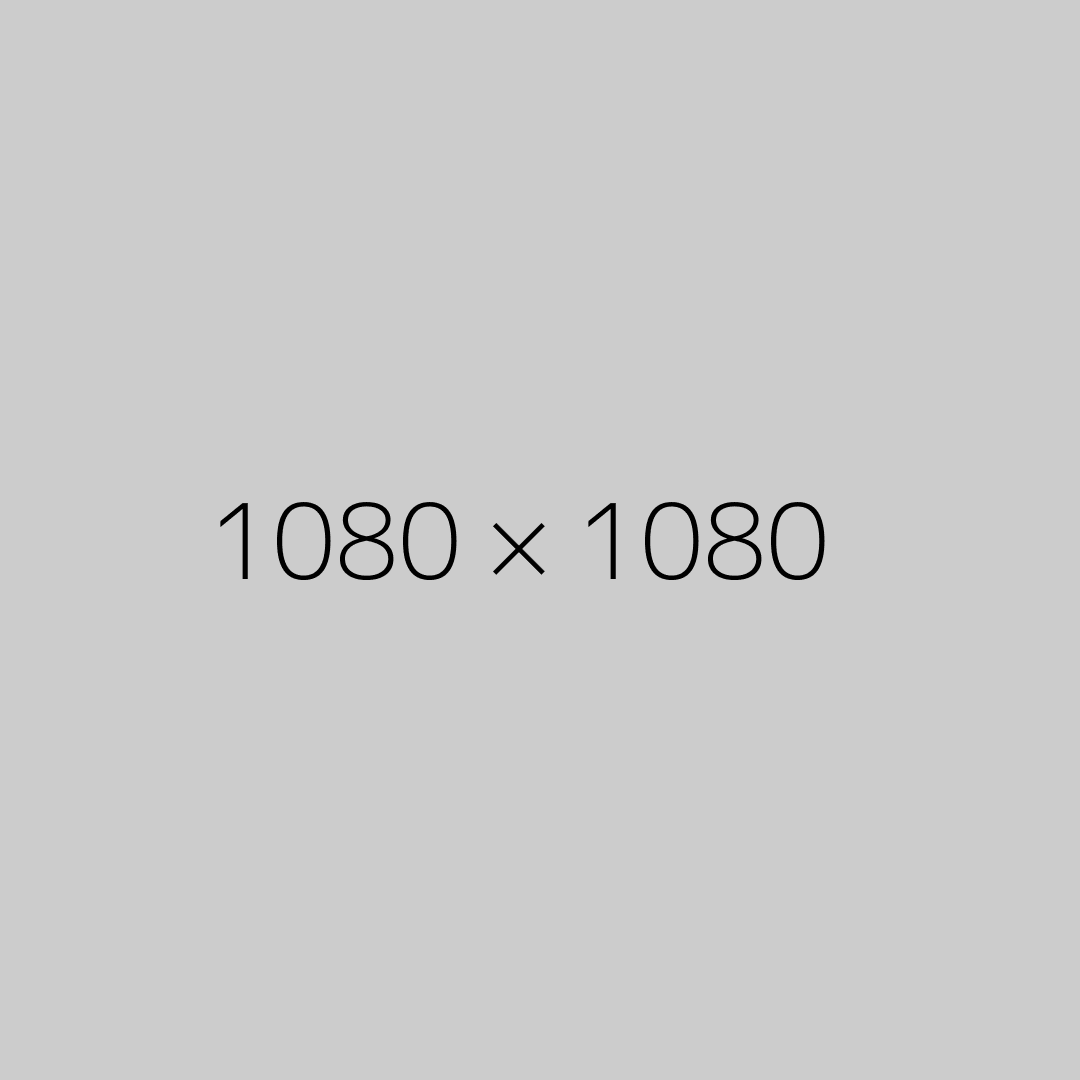
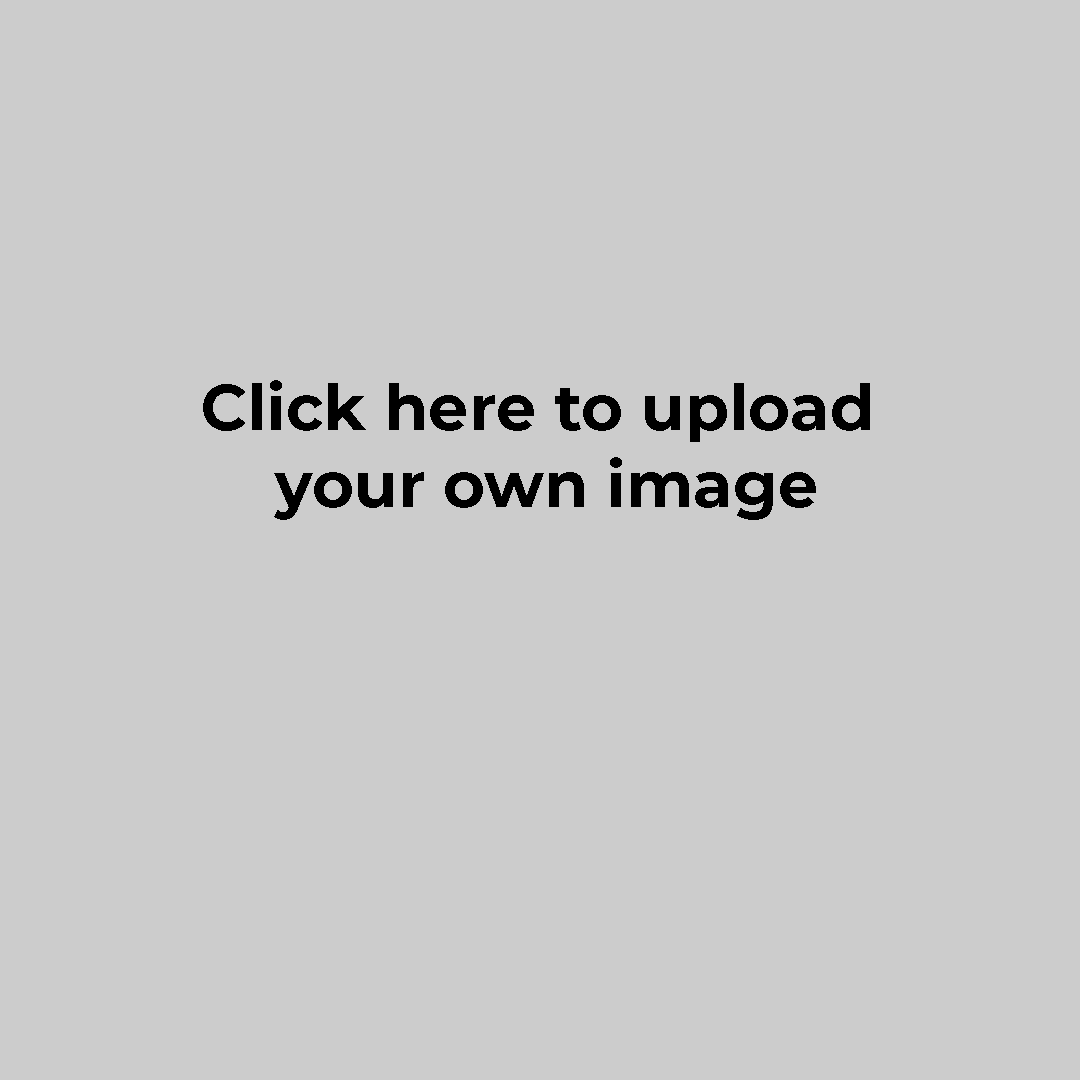
update style

Changed region(s): [[0.1833, 0.3361, 0.825, 0.55]]

diff --git a/public/css/style.css b/public/css/style.css
@@ -27,8 +27,8 @@ html, body{
 #preview{
 	position: relative;
 	display: inline-block;
-	height: 270px;
-	width: 270px;
+	height: 550px;
+	width: 550px;
 	background: #fff;
   margin: 20px 0px;
 }
@@ -48,7 +48,7 @@ html, body{
   margin: 20px auto;
 }
 #download{
-  padding: 10px 20px;
+  padding: 20px 40px;
   background: #092e7b;
   color: #fff;
   font-size: 1em;

diff --git a/social-media-frame.php b/social-media-frame.php
@@ -123,16 +123,16 @@ if ( !class_exists( 'SocialMediaFrame' ) ) {
                             <label for="upload_image">
                                 <div id="preview">
                                     <div id="crop-area">
-                                        <img src="'.IMFPLUGIN_URL.'public/images/hd1080.png" id="uploaded_image" width ="270"/>
+                                        <img src="'.IMFPLUGIN_URL.'public/images/hd1080.png" id="uploaded_image" width ="400"/>
                                     </div>
-                                    <img src="'.IMFPLUGIN_URL.'public/images/frames/frame-0.png" id="fg" data-design="0" width ="270"/>
+                                    <img src="'.IMFPLUGIN_URL.'public/images/frames/frame-0.png" id="fg" data-design="0" width ="400"/>
                                 </div>
                                 <input type="file" name="file" class="image" id="upload_image" style="display:none" onchange="onFileChange(this)" accept="image/png, image/jpeg">
 
                             </label>
                         </form>
-                        <br>
-                        <h3>Frame Design</h3>
+                        <br><br>
+                        <h3>Select Frame Design</h3>
                         <div id="designs">
                             <img class="design active" src="'.IMFPLUGIN_URL.'public/images/frames/frame-0.png" data-design="0"/>
                             <img class="design " src="'.IMFPLUGIN_URL.'public/images/frames/frame-1.png" data-design="1" />
@@ -144,6 +144,9 @@ if ( !class_exists( 'SocialMediaFrame' ) ) {
                         <p>
                             <br><button id="download" disabled>Share Image</button>
                         </p>
+
+                        <br>
+                        <h3>Select a frame, upload your image and share your post on social media</h3>
                     </div>
                 </div>';
             
